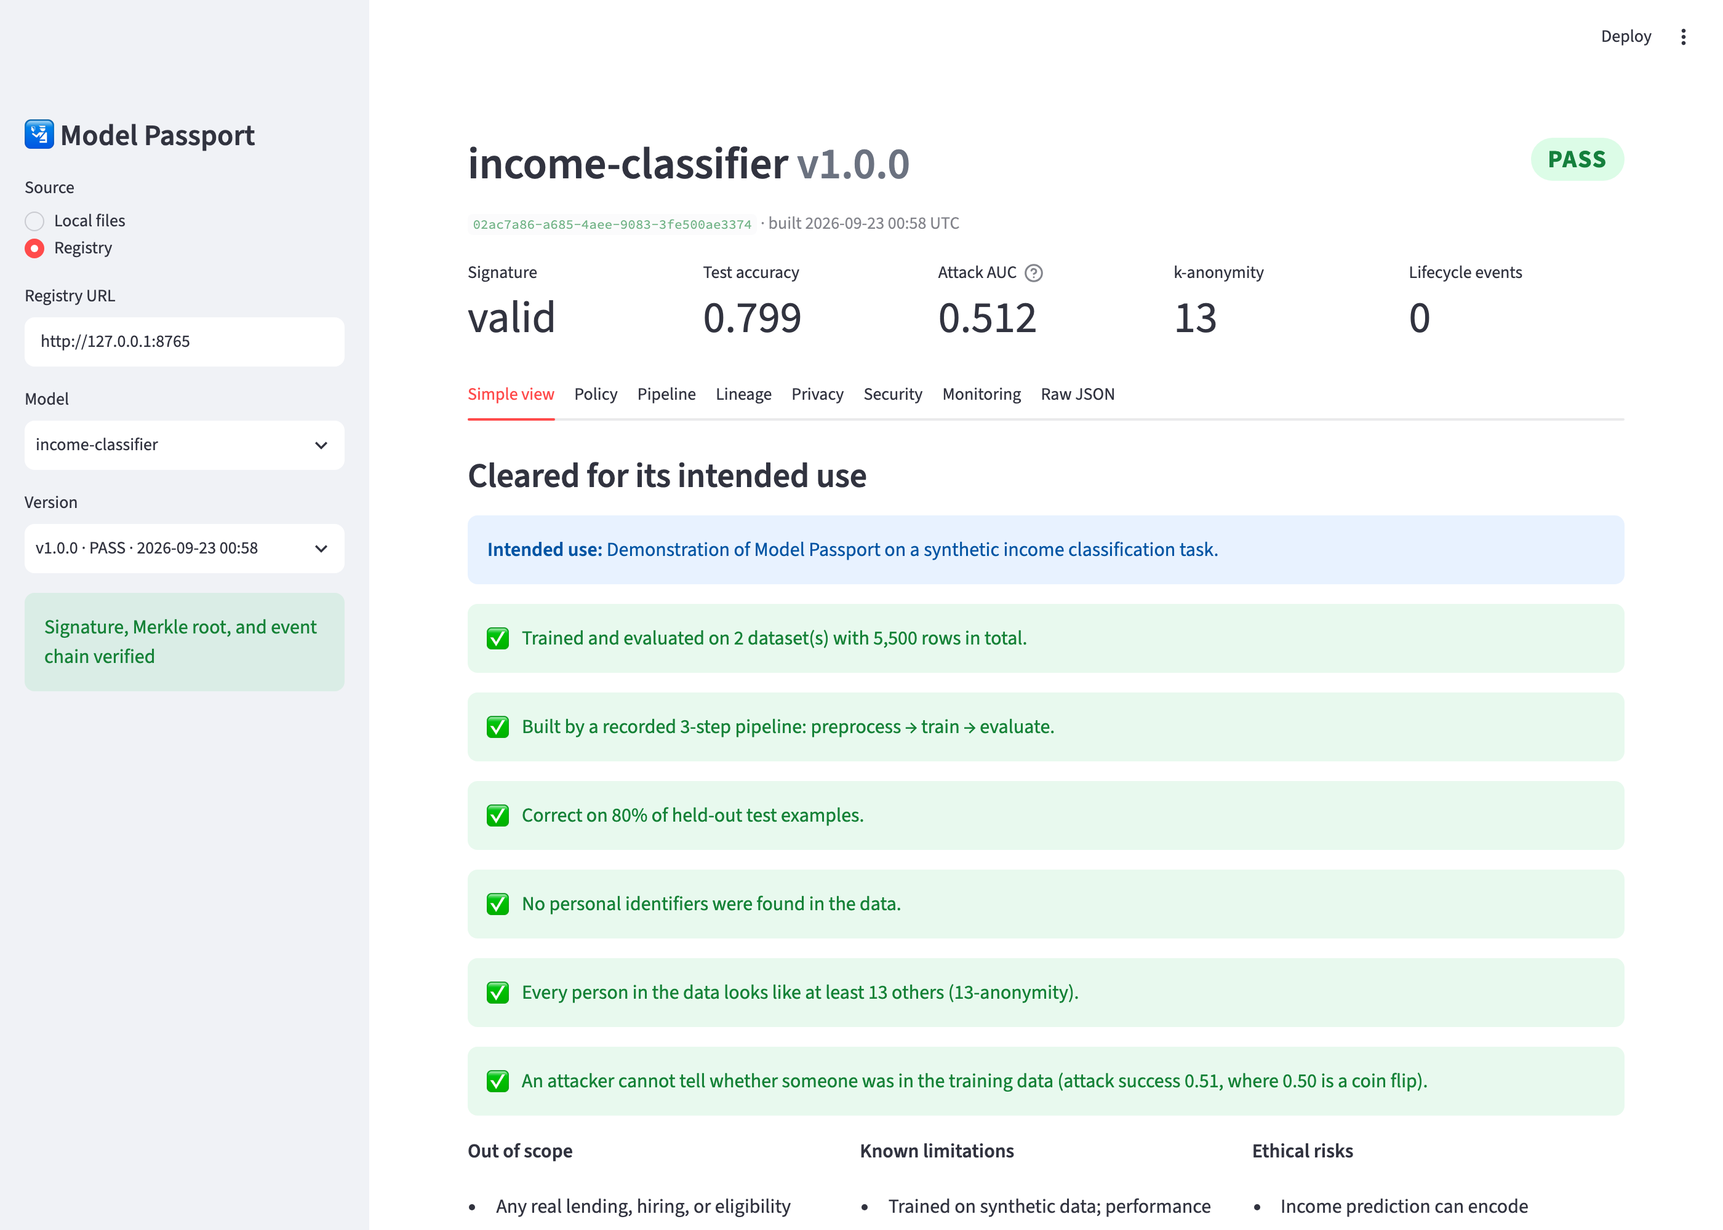
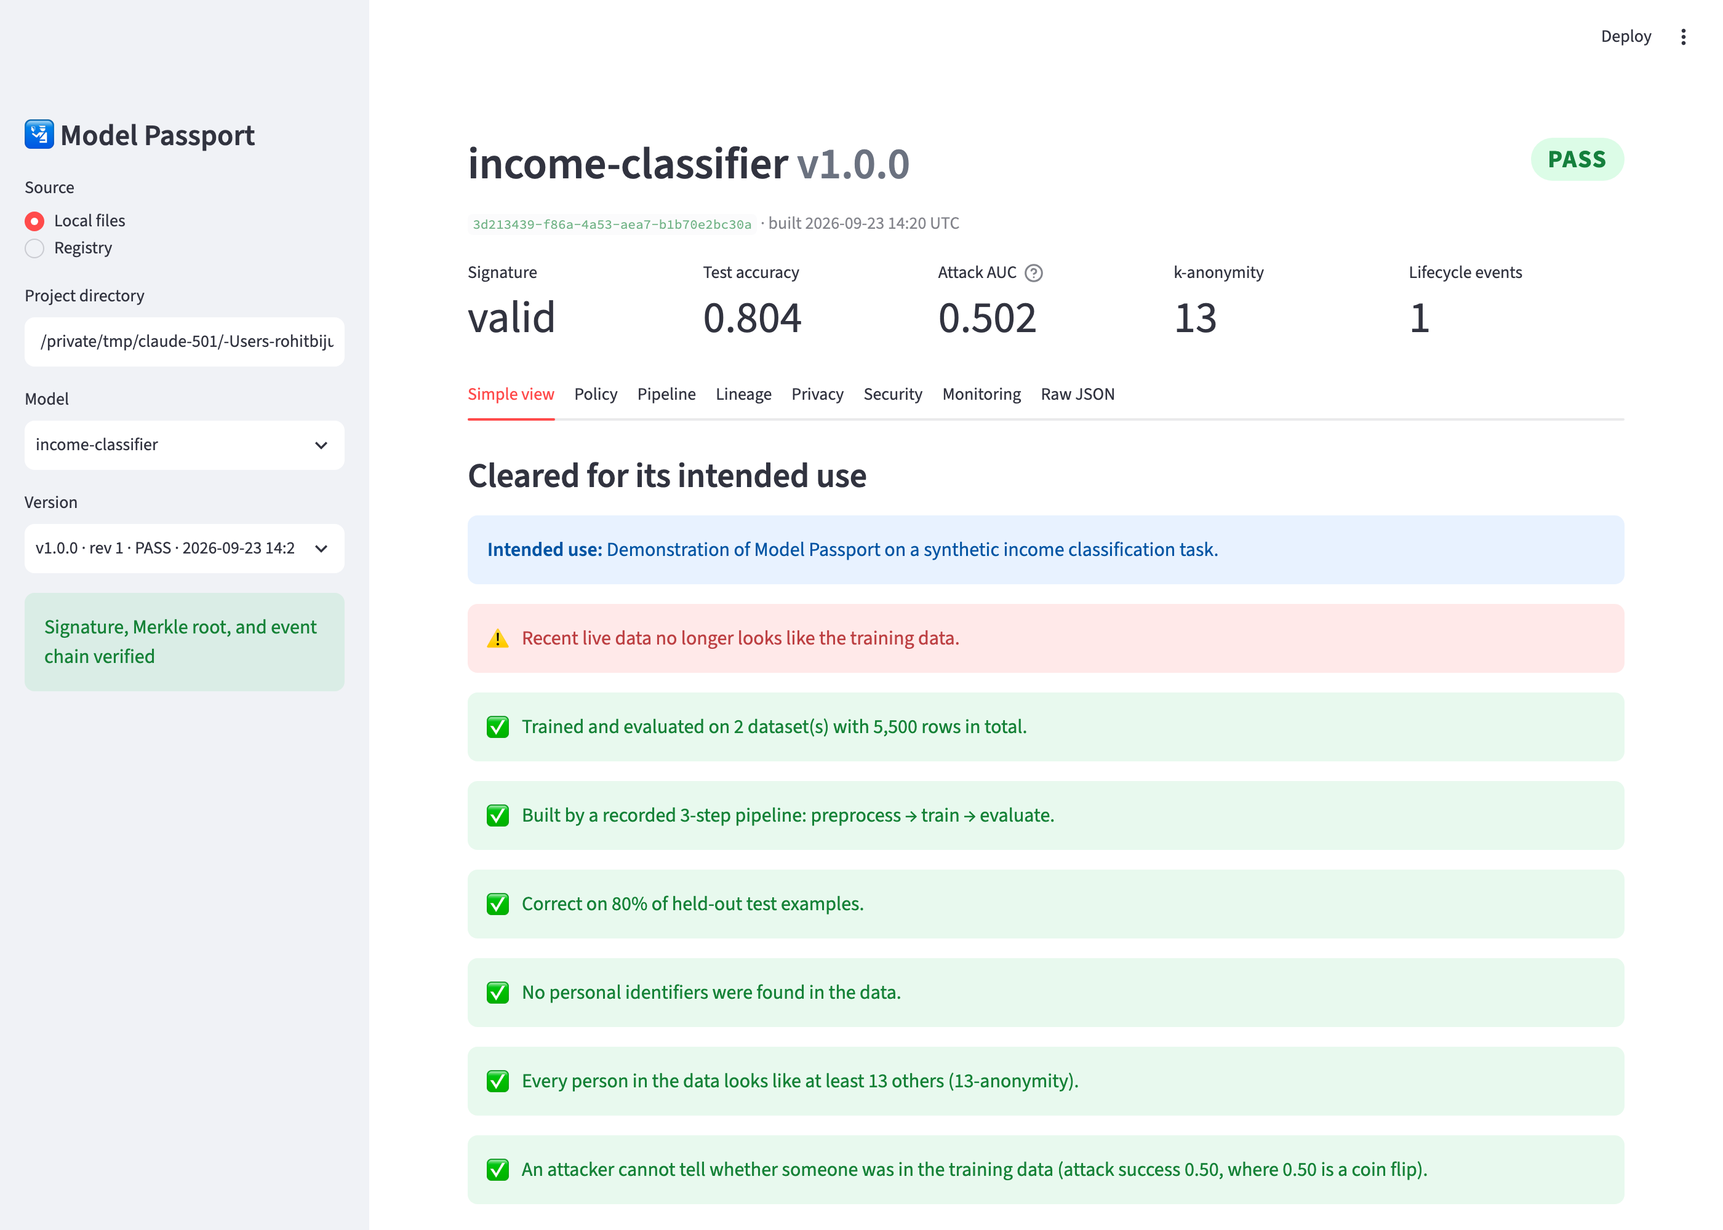
README with real screenshots; roadmap status for session 2
- CLI captures (policy gate failure, tamper detection, drift) rendered from real runs by
  scripts/terminal_shot.py; dashboard tabs and PASS/FAIL reports via scripts/screenshot.py
- CI, Python, and license badges; Docker, demo lifecycle, and quality tooling docs

diff --git a/scripts/terminal_shot.py b/scripts/terminal_shot.py
@@ -1,0 +1,80 @@
+"""Render captured CLI output as a terminal-window PNG (used for README images).
+
+    passport build 2>&1 | python scripts/terminal_shot.py - docs/images/cli-build.png \\
+        --title "passport build"
+"""
+
+from __future__ import annotations
+
+import argparse
+import html
+import re
+import sys
+import tempfile
+from pathlib import Path
+
+from playwright.sync_api import sync_playwright
+
+GREEN, YELLOW, RED, BLUE = "#4ade80", "#facc15", "#f87171", "#93c5fd"
+GOOD = r"\[(PASS|ok\s*)\]|\bVERIFIED\b|\bverdict: PASS\b|no retraining needed"
+BAD = (
+    r"\[FAIL\]|\[DRIFT\]|\bverdict: FAIL\b|VERIFICATION FAILED|CHANGED|INVALID|"
+    r"retraining recommended|MISMATCH"
+)
+HIGHLIGHTS = [
+    (re.compile(GOOD), GREEN),
+    (re.compile(r"\[WARN\]"), YELLOW),
+    (re.compile(BAD), RED),
+    (re.compile(r"^\$ .*$", re.MULTILINE), BLUE),
+]
+
+PAGE = """<!doctype html><html><head><meta charset="utf-8"><style>
+body {{ margin: 0; padding: 24px; background: #e5e7eb; font-family: -apple-system, sans-serif; }}
+.win {{ background: #0f172a; border-radius: 10px; box-shadow: 0 10px 30px rgba(0,0,0,.25);
+        overflow: hidden; display: inline-block; min-width: 900px; }}
+.bar {{ background: #1e293b; padding: 10px 14px; color: #94a3b8; font-size: 13px; }}
+.dot {{ display: inline-block; width: 12px; height: 12px; border-radius: 50%;
+        margin-right: 6px; vertical-align: middle; }}
+pre {{ margin: 0; padding: 16px 20px; color: #e2e8f0; font: 13px/1.5 ui-monospace, Menlo,
+       monospace; white-space: pre; }}
+</style></head><body><div class="win"><div class="bar">
+<span class="dot" style="background:#f87171"></span><span class="dot" style="background:#facc15">
+</span><span class="dot" style="background:#4ade80"></span>&nbsp; {title}</div>
+<pre>{body}</pre></div></body></html>"""
+
+
+def colorize(text: str) -> str:
+    escaped = html.escape(text)
+    for pattern, color in HIGHLIGHTS:
+        escaped = pattern.sub(
+            lambda m, c=color: f'<span style="color:{c};font-weight:600">{m.group(0)}</span>',
+            escaped,
+        )
+    return escaped
+
+
+def main() -> None:
+    parser = argparse.ArgumentParser(description=__doc__)
+    parser.add_argument("source", help="text file with captured output, or - for stdin")
+    parser.add_argument("out", type=Path)
+    parser.add_argument("--title", default="terminal")
+    args = parser.parse_args()
+
+    text = sys.stdin.read() if args.source == "-" else Path(args.source).read_text()
+    page_html = PAGE.format(title=html.escape(args.title), body=colorize(text.rstrip()))
+    with tempfile.NamedTemporaryFile("w", suffix=".html", delete=False) as fh:
+        fh.write(page_html)
+        page_path = Path(fh.name)
+    args.out.parent.mkdir(parents=True, exist_ok=True)
+    with sync_playwright() as pw:
+        browser = pw.chromium.launch()
+        page = browser.new_page(viewport={"width": 1000, "height": 400}, device_scale_factor=2)
+        page.goto(page_path.as_uri())
+        page.locator(".win").screenshot(path=str(args.out))
+        browser.close()
+    page_path.unlink()
+    print(f"wrote {args.out}")
+
+
+if __name__ == "__main__":
+    main()

diff --git a/scripts/screenshot.py b/scripts/screenshot.py
@@ -21,6 +21,7 @@ def main() -> None:
     parser.add_argument("--wait-for", help="CSS selector or text to wait for", default=None)
     parser.add_argument("--delay-ms", type=int, default=500)
     parser.add_argument("--clip-height", type=int, default=None)
+    parser.add_argument("--click", help="text of a tab or button to click before capturing")
     args = parser.parse_args()
 
     target = args.target
@@ -36,6 +37,8 @@ def main() -> None:
         page.goto(target, wait_until="networkidle")
         if args.wait_for:
             page.get_by_text(args.wait_for).first.wait_for(timeout=60_000)
+        if args.click:
+            page.get_by_role("tab", name=args.click).or_(page.get_by_text(args.click)).first.click()
         page.wait_for_timeout(args.delay_ms)
         clip = None
         if args.clip_height:

diff --git a/README.md b/README.md
@@ -1,12 +1,32 @@
 # Model Passport
 
+[![CI](https://github.com/r7bb/Model-Passport/actions/workflows/ci.yml/badge.svg)](https://github.com/r7bb/Model-Passport/actions/workflows/ci.yml)
+![Python 3.11+](https://img.shields.io/badge/python-3.11%2B-blue)
+![License: MIT](https://img.shields.io/badge/license-MIT-green)
+
 Model Passport wraps an ML training pipeline and produces a signed, verifiable **passport** for every trained model. The passport records where the model came from (data, code, parameters, environment, metrics) and certifies that the training data and the trained model were checked for privacy and security problems. It is machine readable for CI and tools, and human readable for reviewers.
 
-It extends the AIPassport framework (Kalokyri et al., [arXiv 2506.22358](https://arxiv.org/abs/2506.22358)) with automated PII and reidentification scanning, membership inference auditing, artifact and dependency safety checks, Ed25519 signatures over a Merkle root of all artifacts, a CI policy gate, and signed drift-monitoring events. See [ROADMAP.md](ROADMAP.md) for status.
+It extends the AIPassport framework (Kalokyri et al., [arXiv 2506.22358](https://arxiv.org/abs/2506.22358)) with:
+- automated PII and reidentification scanning
+- membership inference auditing
+- artifact and dependency safety checks
+- Ed25519 signatures over a Merkle root of all artifacts
+- a CI policy gate
+- signed drift-monitoring events for new and changing data
 
-| Dashboard (simple view) | HTML report |
+See [ROADMAP.md](ROADMAP.md) for status.
+
+![Dashboard simple view](docs/images/dashboard-simple-view.png)
+
+## What it catches
+
+| Unsafe data and an overfit model fail the build | Any change to a certified artifact is named |
 |---|---|
-| ![Dashboard](docs/images/dashboard-simple-view.png) | ![Report](docs/images/report.png) |
+| ![passport build failing the policy gate](docs/images/cli-build-fail.png) | ![passport verify naming the changed model file](docs/images/cli-verify-tamper.png) |
+
+When new data arrives, `passport monitor drift` checks its schema, distribution (KS, Mann-Whitney U, Cramér-von Mises, chi-square, and PSI), and live accuracy. It appends a signed event and exits 1 when retraining is recommended:
+
+![passport monitor drift detecting a shifted batch](docs/images/cli-monitor-drift.png)
 
 ## Setup
 
@@ -15,9 +35,10 @@ Requires Python 3.11+.
 ```bash
 python3.11 -m venv .venv
 .venv/bin/pip install -e ".[dev,demo,registry,dashboard]"
+pre-commit install            # ruff, mypy --strict, and a secrets scan on every commit
 ```
 
-Optional extras: `mlflow` (experiment tracking), `presidio` (free-text PII), `docs` (screenshots).
+Optional extras: `mlflow` (experiment tracking), `presidio` (free-text PII), `docs` (screenshot tooling).
 
 ## Quickstart
 
@@ -33,47 +54,73 @@ passport verify passport.json     # exit 1 and name any changed file, bad signat
 
 ## The demo
 
-A synthetic census-style income dataset with injected fake PII (Faker, no real people):
+The demo uses a synthetic census-style income dataset with injected fake PII (generated with Faker; no real people). The model's regularization strength is picked by stratified 5-fold grid search. Preprocessing sits inside the scikit-learn pipeline, so no statistics leak across folds. Evaluation reports accuracy against the majority-class baseline, plus balanced accuracy, F1, ROC AUC, log loss, and Brier score.
 
 ```bash
-python demo/make_dataset.py
-passport init
-
-# 1. Unsafe: keep identifiers, raw quasi-identifiers, overfit model  -> verdict FAIL
-passport run --set preprocess.drop_identifiers=false --set preprocess.generalize=false \
-             --set train.model=overfit
-passport build            # PII columns, k-anonymity 1, attack AUC ~0.98
-
-# 2. Fixed: drop identifiers, generalize age and ZIP, regularize       -> verdict PASS
-passport run && passport build && passport verify
-
-# 3. Tamper with the model and watch verification fail
-echo x >> models/model.pkl && passport verify
+bash demo/update_cycle.sh    # certify, monitor stable and shifted batches, retrain, re-certify
 ```
 
-### New and changing data
+Or step by step:
 
 ```bash
-# A new batch arrives: check schema, drift (KS, Mann-Whitney U, Cramér-von Mises, chi-square
-# + PSI), and live accuracy. Appends a signed event; exits 1 when retraining is recommended.
-python demo/make_dataset.py --rows 1000 --seed 8 --drift 0.7 --out data/batches/week1.csv
-passport monitor drift data/batches/week1.csv     # batch must use the model's feature format
+python demo/make_dataset.py && passport init
 
-# Retrain on the updated data. The new passport links to the one it supersedes and records
-# which datasets, artifacts, and metrics changed; the old one is archived with its events.
+# Unsafe: keep identifiers, raw quasi-identifiers, overfit model -> FAIL
+passport run --set preprocess.drop_identifiers=false --set preprocess.generalize=false \
+             --set train.model=overfit
+passport build
+
+# Fixed: drop identifiers, generalize age and ZIP, cross-validated regularization -> PASS
+passport run && passport build && passport verify
+
+# New data: prepare a batch with the passport's recorded preprocessing, then monitor it
+python demo/make_dataset.py --rows 1000 --seed 8 --drift 0.7 --out data/batches/week1.csv
+python demo/prepare_batch.py data/batches/week1.csv --out data/batches/week1.prepared.csv
+passport monitor drift data/batches/week1.prepared.csv
+
+# Retrain on updated data; the new passport links to and archives the one it supersedes
 python demo/make_dataset.py --rows 1500 --seed 9 --drift 0.7 --append data/raw.csv
 passport run && passport build --reason "Retrained after drift"
 ```
 
-## Registry and dashboard
+## Dashboard and report
 
 ```bash
-passport serve --db registry.db                  # FastAPI + SQLite; re-verifies every upload
+streamlit run dashboard/app.py                    # local passport.json and .passport/history
+passport serve --db registry.db                   # FastAPI + SQLite; re-verifies every upload
 passport push passport.json --registry http://localhost:8000
 PASSPORT_REGISTRY_URL=http://localhost:8000 streamlit run dashboard/app.py
 ```
 
-Endpoints: `POST /passports`, `GET /passports`, `GET /passports/{id}` (plus `/verify`, `/lineage`, `/dag`, `/html`, `/jsonld`), `POST /passports/{id}/events`. Set `PASSPORT_REGISTRY_TOKEN` to require a bearer token for writes.
+Link to a specific version with `?passport=<passport_id>`.
+
+| Pipeline DAG | Lineage and what changed |
+|---|---|
+| ![Pipeline tab](docs/images/dashboard-pipeline.png) | ![Lineage tab](docs/images/dashboard-lineage.png) |
+| **Privacy audit** | **Drift monitoring** |
+| ![Privacy tab](docs/images/dashboard-privacy.png) | ![Monitoring tab](docs/images/dashboard-monitoring.png) |
+
+`passport build` also writes a self-contained `passport.html`:
+
+| PASS | FAIL |
+|---|---|
+| ![Passing report](docs/images/report-pass.png) | ![Failing report](docs/images/report-fail.png) |
+
+Registry endpoints:
+- `POST /passports` and `GET /passports`
+- `GET /passports/{id}`, plus `/verify`, `/lineage`, `/dag`, `/html`, and `/jsonld`
+- `POST /passports/{id}/events`
+
+Set `PASSPORT_REGISTRY_TOKEN` to require a bearer token for writes.
+
+## Full stack with Docker
+
+```bash
+cp .env.example .env    # then set real credentials
+docker compose up -d --build
+```
+
+This runs MinIO (object store), MLflow (tracking, with artifacts in MinIO), the registry API (http://localhost:8000/docs), and the dashboard (http://localhost:8501). CI builds the whole stack and health-checks every service.
 
 ## Commands
 
@@ -86,21 +133,25 @@ Endpoints: `POST /passports`, `GET /passports`, `GET /passports/{id}` (plus `/ve
 | `report`, `export` | HTML report; JSON-LD (W3C PROV, DCAT, ML Schema) |
 | `scan data`, `scan secrets` | PII and reidentification risk; credentials in files |
 | `audit model`, `audit deps` | Membership inference and pickle safety; pip-audit with OSV severities |
-| `monitor drift` | Drift, schema, and performance check appended as a signed event |
+| `monitor drift` | Schema, drift, and performance check appended as a signed event |
 | `serve`, `push` | Registry API and upload |
 
 ## How verification works
 
 - Every artifact (config, policy, model, datasets, scripts, stage inputs and outputs) is hashed with streamed SHA256 into the `artifacts` manifest.
-- A Merkle root is computed over the sorted hashes with domain-separated leaves and nodes.
-- The passport is canonicalized (sorted keys, no whitespace) and signed with Ed25519. Lifecycle events are excluded from that signature: each one is signed individually and hash-chained to the previous event, and the first is anchored to the passport, so events can be appended but not edited, reordered, or moved.
-- Findings never contain raw sensitive values: only counts, rates, and masked examples like `j***@e***.com`.
+- A Merkle root is computed over the sorted hashes, with domain-separated leaf and node hashes.
+- The passport is canonicalized (sorted keys, no whitespace) and signed with Ed25519.
+- Lifecycle events are excluded from that signature. Each event is signed on its own and hash-chained to the previous event, and the first one is anchored to the passport. Events can be appended but not edited, reordered, or moved to another passport.
+- Findings never contain raw sensitive values, only counts, rates, and masked examples like `j***@e***.com`.
 
 ## Development
 
 ```bash
-.venv/bin/pytest
+.venv/bin/pytest                       # 150+ tests, ~90% coverage
 .venv/bin/ruff check . && .venv/bin/ruff format --check .
+.venv/bin/mypy                         # strict
 ```
+
+The HTML report is rendered by a small typed builder (`src/model_passport/report/html.py`) rather than a template engine. Every value is escaped unless it's explicitly marked safe, and mypy and ruff check the report code like everything else. The README images are regenerated from real runs with `scripts/screenshot.py` and `scripts/terminal_shot.py`.
 
 Licensed under MIT ([LICENSE](LICENSE)); see [THIRD_PARTY_NOTICES.md](THIRD_PARTY_NOTICES.md).

diff --git a/ROADMAP.md b/ROADMAP.md
@@ -37,29 +37,43 @@ Model Passport extends the AIPassport framework (Kalokyri et al., arXiv 2506.223
 - Pickle opcode scan (picklescan); warns when raw pickle is used instead of safetensors or ONNX.
 - `pip-audit` of the captured environment, with CVE severity from OSV.
 
-### Phase 5: Registry, report, dashboard (built; tests and Docker Compose pending)
+### Phase 5: Registry, report, dashboard (done)
 - FastAPI and SQLite registry: upload, list, get, verify, and events endpoints, with an optional bearer token for writes.
 - Static `passport.html` report rendered by a small typed Python HTML builder (escape-by-default, no template engine), and JSON-LD export using W3C PROV terms.
 - Streamlit dashboard: model picker, verdict, lineage, pipeline DAG, scan results, and a plain-language "simple view".
 - Docker Compose running MLflow, MinIO (as MLflow's artifact store), the registry, and the dashboard.
 
-### Phase 6: CI and monitoring (monitoring built; tests and CI pending)
+### Phase 6: CI and monitoring (done)
 - GitHub Actions: lint, tests, and an end-to-end demo run through `passport build` and `passport verify`. CI fails if the demo data carries PII.
 - Drift checks (Kolmogorov-Smirnov, Mann-Whitney U, and Cramér-von Mises for numeric features; chi-square for categorical) appended as hash-chained, signed lifecycle events.
 - New and changing data: schema validation and live accuracy on each batch, `retrain_recommended` exit code, and `passport build` linking each rebuild to the passport it supersedes (dataset, artifact, and metric deltas; archived history in `.passport/history/`).
 
-## Next session: pick up here
+## Status and next steps
 
-State at end of session 1 (2026-09-22): Phases 1-4 are done and tested (110 tests passing). Phase 5 and 6 code is written and was smoke-tested end to end by hand (monitor on stable vs drifted batches, retrain and revision linking, registry upload/verify/lineage, dashboard against the registry), but it has **no unit tests yet**. Work in this order:
+State at end of session 2 (2026-09-23): all six phases are done. There are 151 tests at about 90% coverage. ruff runs with a strict rule set, mypy --strict is clean, and pre-commit hooks are configured. CI (lint, mypy, tests on 3.11 and 3.12, the full demo lifecycle as a policy gate, and a Docker Compose build with health checks) is green on GitHub Actions.
 
-1. **Tests for the untested modules:** `core/events.py` (partly covered in `test_build_verify.py`), `core/revision.py`, `core/jsonld.py`, `monitoring/drift.py` (stable vs shifted data, Bonferroni, PSI gate, schema checks), `monitoring/monitor.py` (reference hash check, key mismatch, performance degradation), `registry/api.py` via `fastapi.testclient` (upload rejects tampered passports, 409 duplicates, token auth, event chain rejection, lineage), `registry/sources.py`, `report/render.py` and `report/summary.py` (autoescaping, no raw PII), and the new CLI commands (`monitor drift`, `push`, `report`, `export`, `audit`).
-2. **Demo ML hardening** (requested): cross-validated model selection in `demo/train.py` (GridSearchCV over `C` with StratifiedKFold, CV score in `model_info.json`); more metrics in `demo/evaluate.py` (log loss, precision, recall, Brier); a `demo/prepare_batch.py` that applies the same preprocessing to incoming batches (today this is done inline in the README flow); a `demo/update_cycle.sh` covering monitor, then append, then run, then build.
-3. **Phase 6 CI:** `.github/workflows/ci.yml` running ruff, mypy, and pytest, then the demo (`make_dataset`, `init`, `run`, `build`, `verify`). A push that adds a PII column to the demo data must fail the build.
-4. **Docker Compose** (`docker-compose.yml`, `Dockerfile`): MLflow with MinIO as the artifact store, the registry, the dashboard, and a `.env.example` (never commit `.env`). Docker is not installed on the dev machine, so validate in CI.
-5. **Quality pass** (requested: "proper checkstyle, no smelly code, good practices"): widen ruff rules (C90 complexity, N, PL, PTH, RET, ARG, ERA, S, BLE, TRY), add `mypy --strict`, add `.pre-commit-config.yaml`, remove the `dashboard/app.py` E501 ignore, and refactor what they flag (the long `build_passport` and dashboard functions first).
-6. **README images:** more screenshots via `scripts/screenshot.py` (dashboard Pipeline, Lineage, Privacy, and Monitoring tabs; the FAIL report), plus CLI output captures for build FAIL/PASS, verify tamper, and monitor drift.
+Session 2 added:
+- Tests for the drift, monitor, registry, client, revision, report, and CLI modules. They caught three real bugs, all fixed.
+- Demo ML hardening: cross-validated model selection, no-leakage pipelines, fuller metrics, batch preparation from recorded parameters, and `demo/update_cycle.sh`.
+- The CI workflow and the Docker Compose stack. MinIO images now come from quay.io.
+- The quality pass and refactors.
+- Replacing Jinja2 with a typed HTML builder.
+- README screenshots from real runs.
 
-Environment notes: use `.venv` (Python 3.11 from uv, installed at `~/.local/bin`); install with `uv pip install --python .venv/bin/python -e ".[dev,demo,registry,dashboard,mlflow,docs]"`. Set `MLFLOW_DISABLE_AGENT_HINT=1` to silence MLflow's startup message. Tests stub pip-audit (see `tests/conftest.py`); mark a test `@pytest.mark.network` to use the real one. Commits carry no AI attribution lines.
+Possible next steps, in rough priority order:
+1. Screenshot automation: regenerate `docs/images/` in CI (or with `make docs`) so the README never goes stale.
+2. The stretch goals under Later: shadow-model MIA via ML Privacy Meter or ART, Opacus differential privacy in the demo, and text memorization tests.
+3. Key management: key rotation, and a trusted-key registry with revocation.
+4. A Postgres backend for the registry, plus pagination.
+5. Coverage gaps: `registry/client.py` error paths, `core/tracking.py` MLflow failure paths, and `cli/project.py` edge cases.
+
+Environment notes:
+- Use `.venv` (Python 3.11 from uv, installed at `~/.local/bin`). Install with `uv pip install --python .venv/bin/python -e ".[dev,demo,registry,dashboard,mlflow,docs]"` and run `python -m playwright install chromium` for screenshots.
+- Set `MLFLOW_DISABLE_AGENT_HINT=1` to silence MLflow's startup message.
+- Tests stub pip-audit (see `tests/conftest.py`); mark a test `@pytest.mark.network` to use the real one.
+- Docker isn't installed on the dev machine, so the compose stack is validated only in CI.
+- CI job logs need repo-admin access. On failure the docker job publishes container logs as annotations, which are readable via the public API.
+- Commits carry no AI attribution lines.
 
 Deviations from the original project spec to confirm with the team:
 - Passports carry a top-level `artifacts` manifest plus `run` and `revision` sections that the v0.1 spec did not list.
